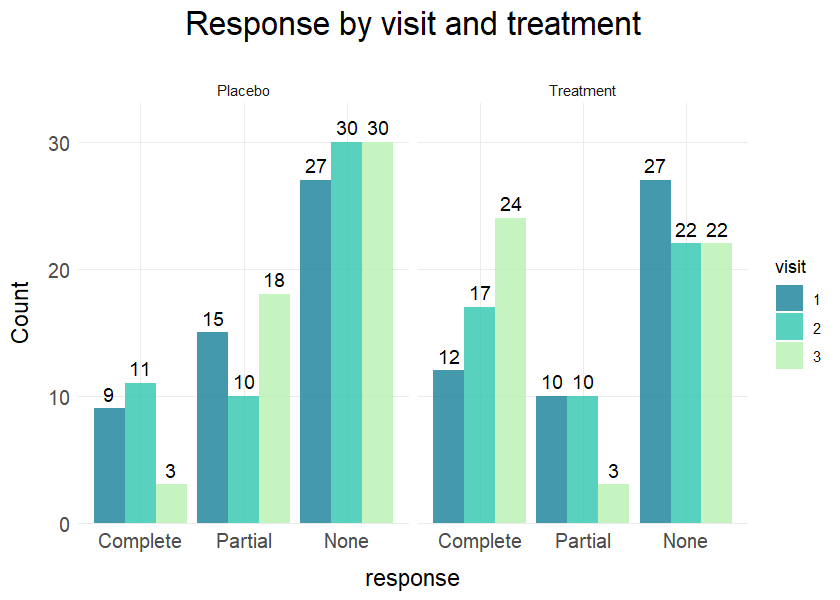
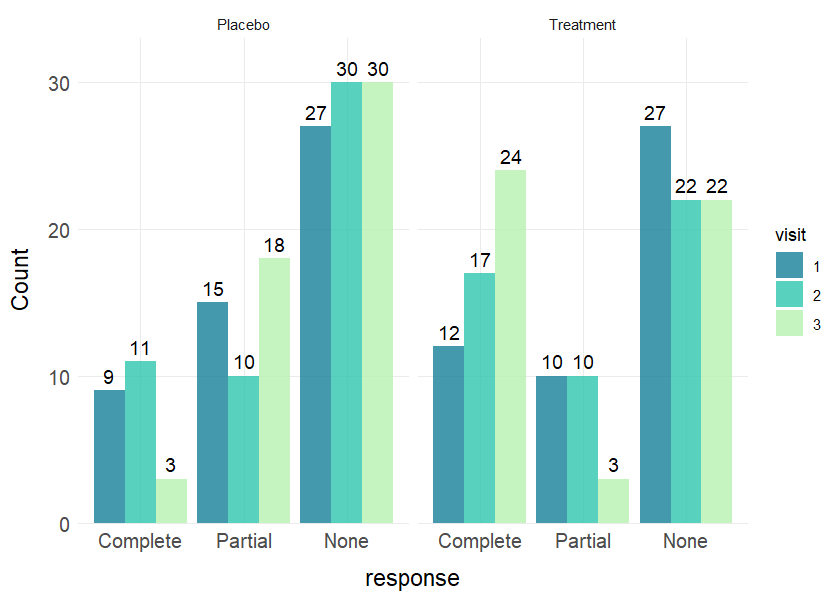
Update README

diff --git a/README.md b/README.md
@@ -825,8 +825,7 @@ Generates publication-ready bar plots with minimal code using ggplot2.
 clinical_df <- clinical_data()
 
 # Proportion of response by treatment
-plot_bar(data = clinical_df, x = "treatment", group = "response", position = "fill", 
-         title = "Proportion of response by treatment", values = TRUE)
+plot_bar(data = clinical_df, x = "treatment", group = "response", position = "fill", values = TRUE)
 ```
 
 <img src="man/figures/README-unnamed-chunk-24-1.png" width="75%" />
@@ -834,8 +833,7 @@ plot_bar(data = clinical_df, x = "treatment", group = "response", position = "fi
 ``` r
 
 # Grouped barplot of categorical variable by treatment with value labels
-plot_bar(data = clinical_df, x = "response", group = "visit", facet = "treatment", 
-         title = "Response by visit and treatment",values = TRUE)
+plot_bar(data = clinical_df, x = "response", group = "visit", facet = "treatment", values = TRUE)
 ```
 
 <img src="man/figures/README-unnamed-chunk-24-2.png" width="75%" />
